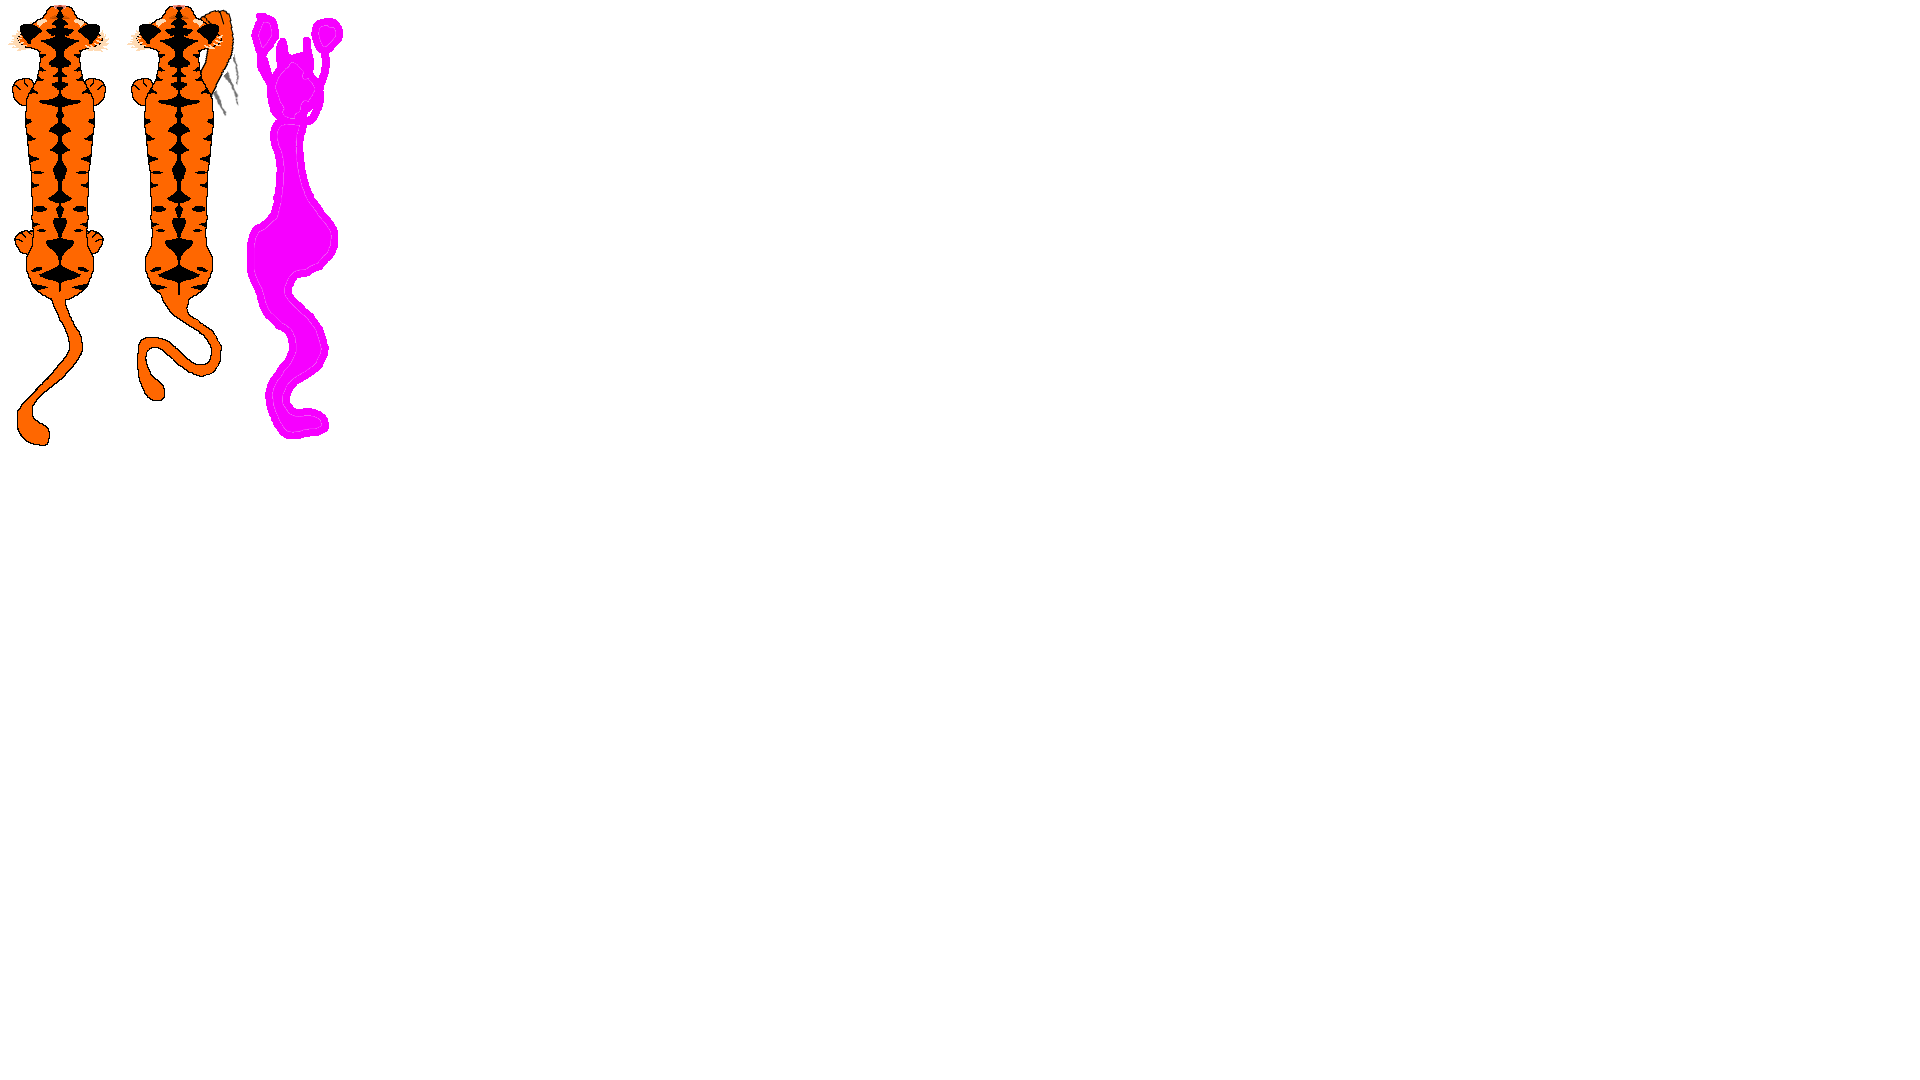
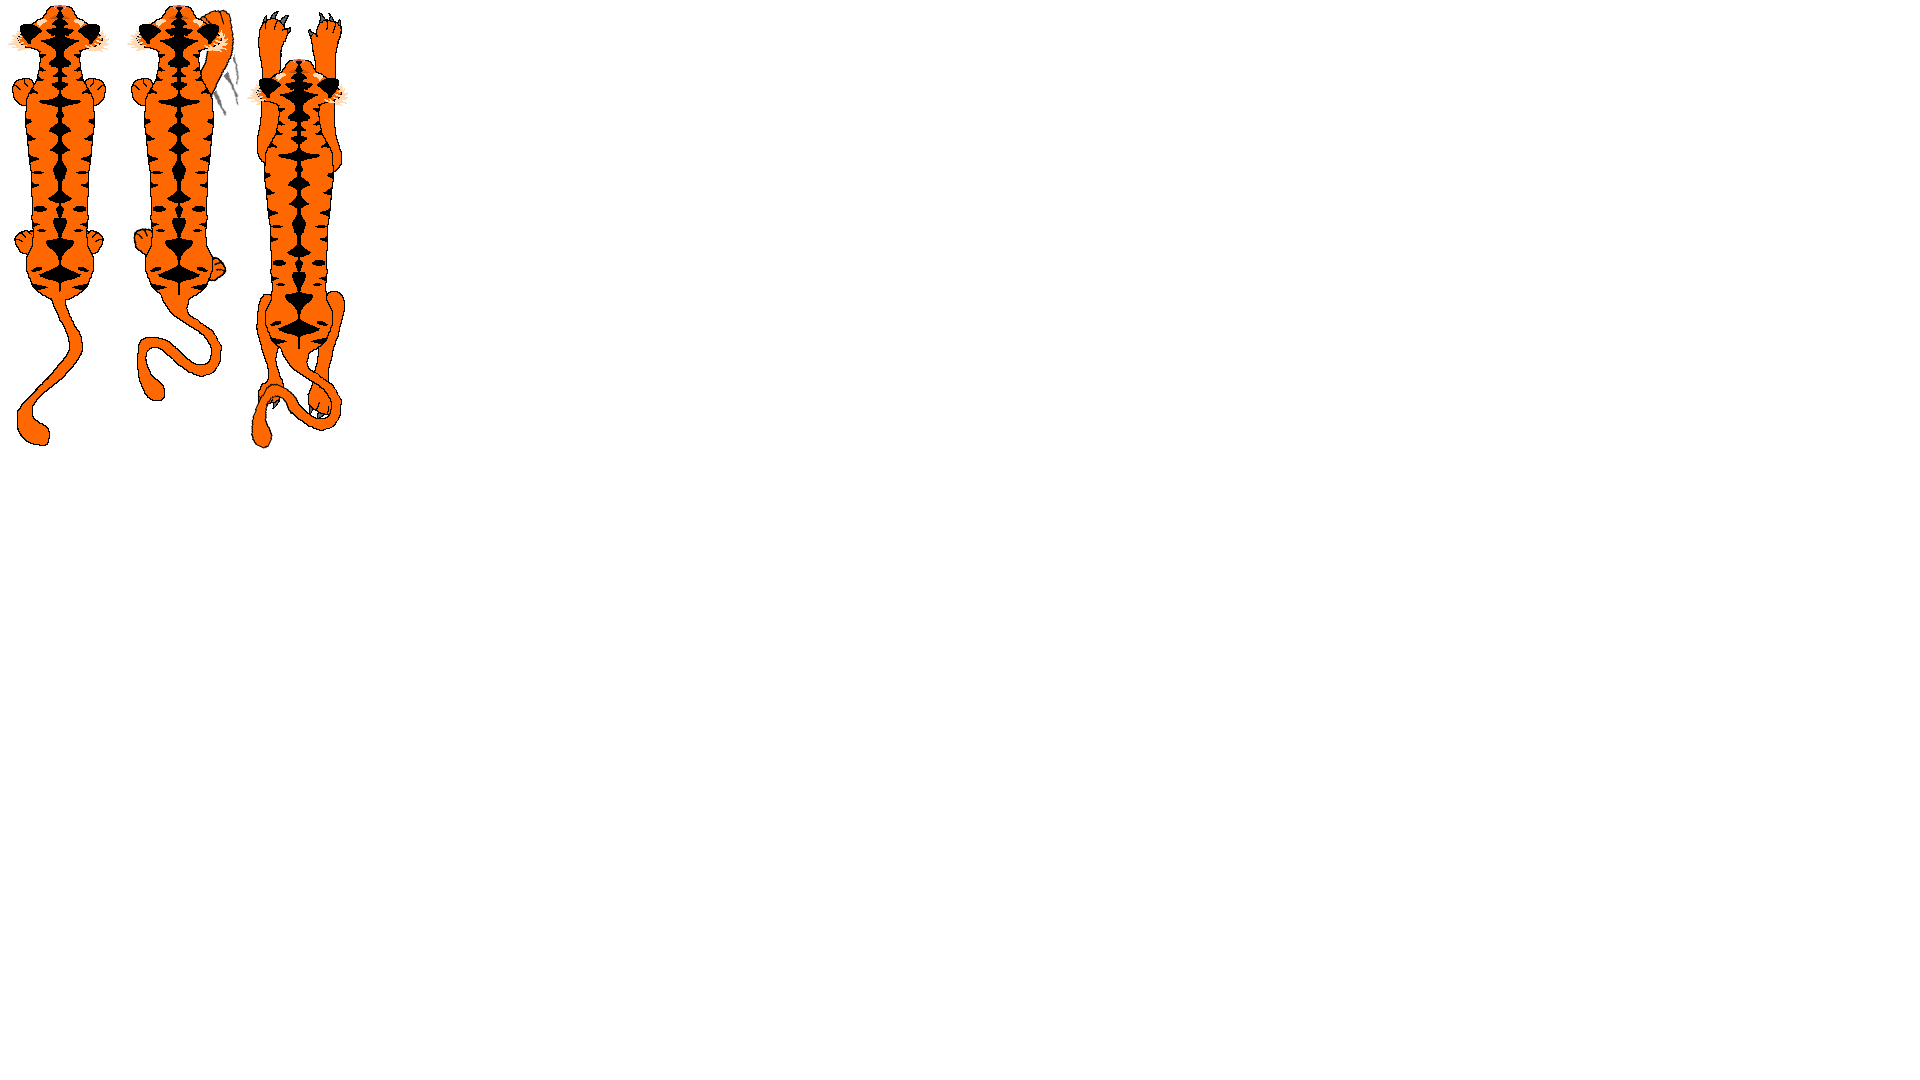
added damage and update texture

Changed region(s): [[0.0938, 0.0, 0.1875, 0.4278], [0.0625, 0.2139, 0.0938, 0.2444]]

diff --git a/src/core/gameObjects/Player.cpp b/src/core/gameObjects/Player.cpp
@@ -3,7 +3,7 @@
 #include "Camera.h"
 
 Player::Player() {
-	m_Origin = glm::vec2(90, 160);
+	m_Origin = glm::vec2(60, 160);
 	m_Position = glm::vec2(400);
 	m_Damage = 0.0f;
 	m_Texture.loadFromFile("asset/TigerCharacter.png");
@@ -14,6 +14,7 @@ Player::Player() {
 	m_PounceTimer = 0.0f;
 	m_HP = 100.0f;
 	m_Mauling = false;
+	m_Pouncing = false;
 }
 
 Player::~Player() {
@@ -59,11 +60,16 @@ void Player::CheckAttack(float dt){
 		Pounce();
 	}
 
-	if (m_MaulTimer != 3.0f){
+	if (m_MaulTimer != MAULTIME){
 		m_Mauling = false;
 	}
 	if (m_MaulTimer > 0.0f){
 		m_MaulTimer -= dt;
+	}
+
+	if (m_PounceTimer != POUNCETIME)
+	{
+		m_Pouncing = false;
 	}
 	if (m_PounceTimer > 0.0f){
 		m_PounceTimer -= dt;
@@ -77,14 +83,18 @@ void Player::CheckAttack(float dt){
 void Player::Maul(){
 	if (m_MaulTimer <= 0.0f){
 		m_Sprite.setTextureRect(sf::IntRect(120, 0, 120, 450));
-		m_MaulTimer = 3.0f;
+		m_MaulTimer = MAULTIME;
 		m_Mauling = true;
 	}
 }
 
 void Player::Pounce(){
-	m_Sprite.setTextureRect(sf::IntRect(240, 0, 120, 450));
-	m_PounceTimer = 2.0f;
+	if (m_PounceTimer <= 0.0f)
+	{
+		m_Sprite.setTextureRect(sf::IntRect(240, 0, 120, 450));
+		m_PounceTimer = POUNCETIME;
+		m_Pouncing = true;
+	}
 }
 
 sf::FloatRect Player::GetBoundingBoxMaul(){
@@ -113,4 +123,8 @@ float Player::GetDamage(){
 
 bool Player::GetMauling(){
 	return m_Mauling;
+}
+
+bool Player::GetPouncing(){
+	return m_Pouncing;
 }

diff --git a/src/core/Game.cpp b/src/core/Game.cpp
@@ -88,12 +88,17 @@ void Game::CheckCollisions(){
 			if (m_Player.GetMauling()){
 				if (m_Player.GetBoundingBoxMaul().intersects(gameobject->GetBoundingBox()))
 				{
-					//enemy->SetEaten(true);
-					enemy->TakeDamage(m_Player.GetMaulDamage());
+					enemy->TakeDamage(m_Player.GetDamage());
+				}
+			}
+			if (m_Player.GetPouncing()){
+				if (m_Player.GetBoundingBoxPounce().intersects(gameobject->GetBoundingBox()))
+				{
+					enemy->TakeDamage(m_Player.GetDamage());
 				}
 			}
 		}
 	}
-	playerRect = m_Player.GetBoundingBoxMaul();
 
+	playerRect = m_Player.GetBoundingBoxMaul();
 }

diff --git a/src/core/gameObjects/Player.h b/src/core/gameObjects/Player.h
@@ -16,6 +16,8 @@ public:
 private:
 
 	const float MOVEMENT_SPEED = 4.0f;
+	const float MAULTIME = 1.0f;
+	const float POUNCETIME = 2.0f;
 
 	void CheckAttack(float dt);
 	void Maul();
